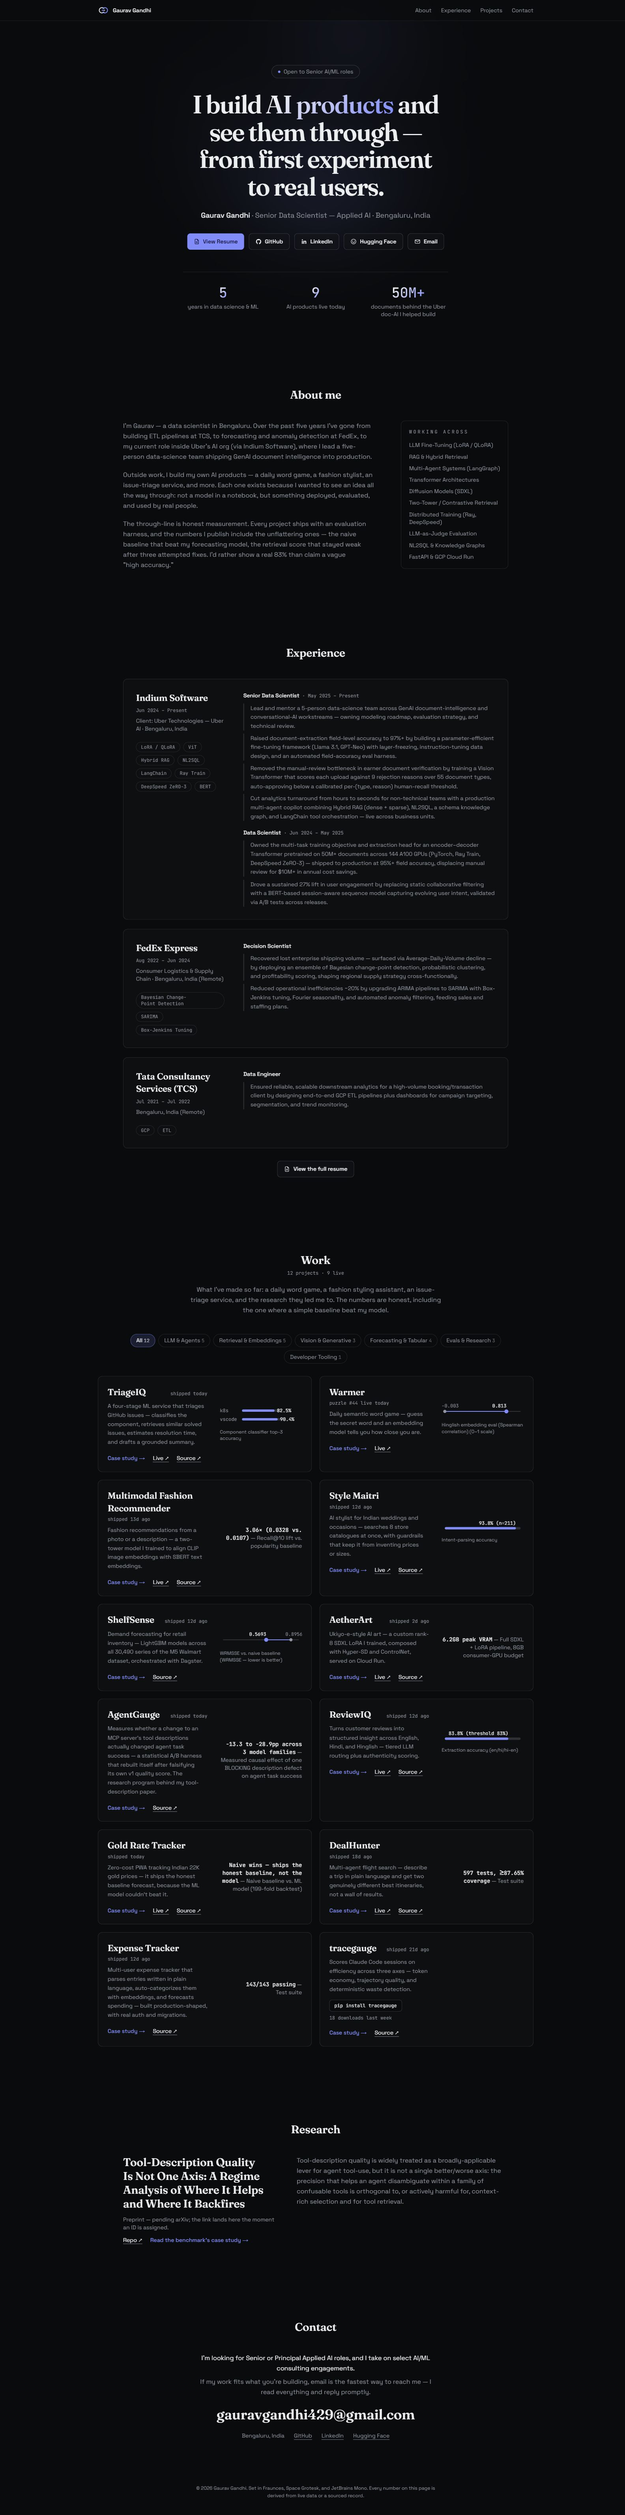
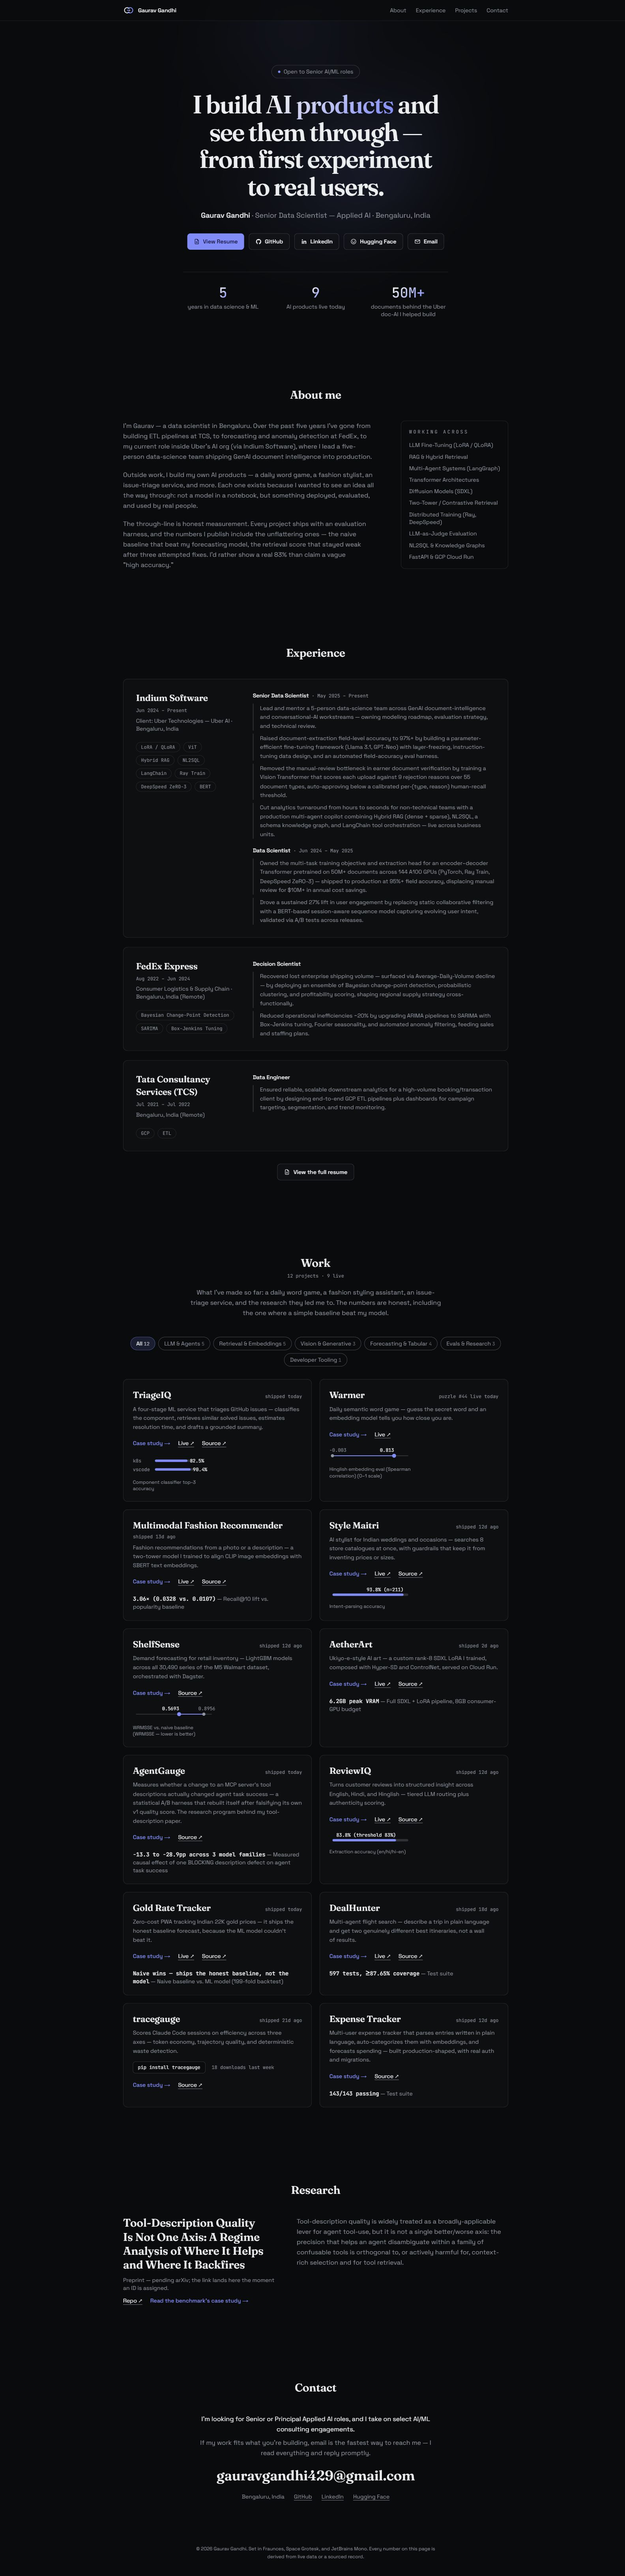
fix(design): wave-13 review fixes — one 5xl axis, pill contrast, chip wrap, breakpoint alignment
Design-reviewer sign-off was blocked on one finding: three content
widths at xl (About/Experience/Research 5xl vs Work/nav 6xl — a
pixel-measured 64px zigzag on one continuous page). Unified on ONE 5xl
axis; verified nav/About/Experience/Work all share x=304 at 1600px.
Card container-query threshold 30rem -> 28rem (half a 5xl grid is
~478px) so figure rails still engage. Suggestions taken: unselected
filter pills get full-opacity borders (border is their only boundary
affordance — /40 computed ~1.47:1, the exact value the token was raised
to escape; now 3.38:1 per WCAG 1.4.11); Experience meta rail 14->16rem
(long chip no longer wraps into a stretched capsule); mobile pills wrap
left-aligned; grid columns lg->xl to match Section's width step
(1024-1279 band verified at 1100px, screenshot added). axe re-run 0;
budget 204,770 B gzip vs 220,160. Reviewer inspection scratch files
removed from the branch.

diff --git a/components/project-card.tsx b/components/project-card.tsx
@@ -12,8 +12,9 @@ import type { TracegaugeDownloads } from "@/lib/live-data";
  *
  * `data-cats` drives the CSS category filtering (globals.css +
  * components/project-filter.tsx). The card is a @container: on wide cards
- * (≥30rem — the 2-column desktop grid) the eval figure sits in a right
- * rail beside the text; on narrow cards it stacks below. The title carries
+ * (≥28rem — half the 5xl grid computes to ~478px, so the threshold sits
+ * just under it) the eval figure sits in a right rail beside the text; on
+ * narrow cards it stacks below. The title carries
  * a per-slug view-transition-name that pairs with the case-study h1, so
  * supporting browsers morph the title you clicked into the page heading.
  */
@@ -35,7 +36,7 @@ export function ProjectCard({
       data-cats={product.categories.join(" ")}
       className="border-border/40 bg-card/50 hover:border-accent/50 hover:shadow-card-hover @container flex h-full flex-col rounded-xl border p-6 transition-[transform,box-shadow,border-color,opacity] duration-300 ease-out hover:-translate-y-1 motion-reduce:transition-none motion-reduce:hover:translate-y-0"
     >
-      <div className="grid gap-x-8 gap-y-6 @[30rem]:grid-cols-[minmax(0,1fr)_13rem]">
+      <div className="grid gap-x-8 gap-y-6 @[28rem]:grid-cols-[minmax(0,1fr)_13rem]">
         <div className="flex min-w-0 flex-col">
           <div className="flex flex-wrap items-baseline justify-between gap-x-6 gap-y-1">
             <Heading className="font-heading text-lead font-semibold text-foreground">
@@ -80,13 +81,13 @@ export function ProjectCard({
         </div>
 
         {product.figure && product.metric && (
-          <div className="@[30rem]:self-center @[30rem]:justify-self-end">
+          <div className="@[28rem]:self-center @[28rem]:justify-self-end">
             <EvalFigure figure={product.figure} label={product.metric.label} />
           </div>
         )}
 
         {!product.figure && product.metric && (
-          <p className="text-sm @[30rem]:max-w-[13rem] @[30rem]:self-center @[30rem]:justify-self-end @[30rem]:text-right">
+          <p className="text-sm @[28rem]:max-w-[13rem] @[28rem]:self-center @[28rem]:justify-self-end @[28rem]:text-right">
             <span className="font-mono font-medium text-foreground">{product.metric.value}</span>{" "}
             <span className="text-muted-foreground">— {product.metric.label}</span>
           </p>

diff --git a/components/project-filter.tsx b/components/project-filter.tsx
@@ -85,15 +85,21 @@ export function ProjectFilter({
   const pillBase =
     "focus-visible:outline-ring rounded-full border px-3.5 py-1.5 text-sm transition-colors focus-visible:outline-2 focus-visible:outline-offset-2 motion-reduce:transition-none";
   const pillOn = "border-accent/70 bg-accent/15 text-foreground";
+  // Full-opacity border: on an unselected pill the border is the ONLY
+  // boundary affordance, so WCAG 1.4.11's 3:1 applies — --border at 100%
+  // is 3.38:1; at the /40 first cut it computed ~1.47:1, the exact value
+  // the token was raised to escape (design-review finding 2).
   const pillOff =
-    "border-border/40 text-muted-foreground hover:border-accent/50 hover:text-foreground";
+    "border-border text-muted-foreground hover:border-accent/70 hover:text-foreground";
 
   return (
     <div>
+      {/* Left-aligned wrap below sm: centered ragged pill rows read as a
+          cloud on a 390px screen (design-review finding 4). */}
       <div
         role="group"
         aria-label="Filter projects by category"
-        className="flex flex-wrap justify-center gap-2"
+        className="flex flex-wrap justify-start gap-2 sm:justify-center"
       >
         <button
           type="button"

diff --git a/components/section.tsx b/components/section.tsx
@@ -5,11 +5,14 @@
  *
  * Wave 13 — the column widths gain a desktop step (GG's standing
  * complaint: at 1280–1600px the site read as a narrow column in a void).
- * Three widths:
+ * Two widths:
  *   prose — unchanged reading column (About's text, Contact);
  *   wide  — steps up to 5xl at xl for sections with an internal desktop
- *           composition (Experience's meta rail, Research's two-column);
- *   grid  — steps up to 6xl at xl for the two-column project card grid.
+ *           composition (Experience's meta rail, Research's two-column,
+ *           the two-column project card grid).
+ * ONE xl width for every widened section + the nav — the design review
+ * blocked a first cut where Work sat at 6xl beside 5xl siblings: three
+ * widths on one continuous page read as an accident, not a decision.
  * Mobile and tablet are untouched; prose measure inside wide sections is
  * still capped by each component (max-w-measure), so line length never
  * rides the container.
@@ -17,7 +20,6 @@
 const WIDTHS = {
   prose: "max-w-2xl",
   wide: "max-w-3xl xl:max-w-5xl",
-  grid: "max-w-3xl xl:max-w-6xl",
 } as const;
 
 export function Section({

diff --git a/components/sections/experience.tsx b/components/sections/experience.tsx
@@ -24,7 +24,10 @@ export function Experience() {
             key={entry.company}
             className="border-border/40 bg-card/40 rounded-xl border p-6 md:p-8"
           >
-            <div className="xl:grid xl:grid-cols-[14rem_minmax(0,1fr)] xl:gap-x-12">
+            {/* 16rem rail: the longest tech chip ("Bayesian Change-Point
+                Detection") wrapped into a stretched capsule at 14rem
+                (design-review finding 3). */}
+            <div className="xl:grid xl:grid-cols-[16rem_minmax(0,1fr)] xl:gap-x-10">
               <div>
                 <div className="flex flex-wrap items-baseline justify-between gap-x-6 gap-y-1 xl:flex-col xl:gap-y-2">
                   <h3 className="font-heading text-lead font-semibold text-foreground">

diff --git a/components/site-nav.tsx b/components/site-nav.tsx
@@ -42,9 +42,9 @@ export function SiteNav() {
       >
         Skip to content
       </a>
-      {/* Wave 13: tracks the widest content column (xl:max-w-6xl) so the
-          nav's edges align with the project grid on desktop. */}
-      <div className="mx-auto flex w-full max-w-3xl items-center justify-between px-6 py-3 xl:max-w-6xl">
+      {/* Wave 13: tracks the one shared xl content width (xl:max-w-5xl)
+          so the nav's edges align with every widened section below. */}
+      <div className="mx-auto flex w-full max-w-3xl items-center justify-between px-6 py-3 xl:max-w-5xl">
         <TransitionLink
           href="/"
           className="focus-visible:outline-ring flex items-center gap-2.5 focus-visible:outline-2 focus-visible:outline-offset-2"

diff --git a/components/project-grid.tsx b/components/project-grid.tsx
@@ -60,7 +60,10 @@ export async function ProjectGrid({
     <ProjectFilter cats={products.map((p) => ({ slug: p.slug, categories: p.categories }))}>
       <RevealGroup
         mode="onview"
-        className="project-grid mt-8 grid gap-4 lg:grid-cols-2 lg:gap-5"
+        // Columns engage at xl, exactly where Section's width step does —
+        // at lg the container is still 3xl and two columns would squeeze
+        // the cards (design-review finding 6).
+        className="project-grid mt-8 grid gap-4 xl:grid-cols-2 xl:gap-5"
       >
         {products.map((product) => (
           <ProjectCard

diff --git a/app/projects/page.tsx b/app/projects/page.tsx
@@ -19,7 +19,7 @@ export default function ProjectsPage() {
   return (
     <main
       id="main"
-      className="mx-auto w-full max-w-3xl flex-1 px-6 pt-12 pb-20 md:pt-16 xl:max-w-6xl"
+      className="mx-auto w-full max-w-3xl flex-1 px-6 pt-12 pb-20 md:pt-16 xl:max-w-5xl"
     >
       <div className="flex flex-col items-center text-center">
         <h1 className="font-heading text-heading font-semibold tracking-tight text-foreground">

diff --git a/components/sections/work.tsx b/components/sections/work.tsx
@@ -15,7 +15,7 @@ export function Work() {
     <Section
       id="work"
       label="Work"
-      width="grid"
+      width="wide"
       // Both counts derived, never hand-typed (rule 65b).
       labelNote={`${products.length} projects · ${liveProductCount(products)} live`}
       lede={workLede}

diff --git a/reports/wave13-autonomy-density-2026-07-25.md b/reports/wave13-autonomy-density-2026-07-25.md
@@ -238,6 +238,50 @@ than hidden.
   mitigate. A "collapse below the fold on mobile" pattern was considered and rejected this
   wave (hiding projects is what tiering did). Revisit if GG flags it.
 
+## Design-reviewer sign-off (T2 gate)
+
+First pass: **blocked on one finding, everything else suggestion-level.** Scores:
+structure 7 · density 7.5 · craft 7 · rhythm 6.5 · consistency 6.5. Verdict: "once
+finding 1 lands, this is approved."
+
+1. **BLOCKING — three content widths on one page** (About/Experience/Research at 5xl vs
+   Work/nav at 6xl = a 64px zigzag at 1600, pixel-measured by the reviewer). **Fixed by
+   unifying on ONE 5xl axis** (Section's `grid` step deleted; Work, /projects, and the nav
+   all at `xl:max-w-5xl`) — calmer than widening prose sections that can't fill 6xl.
+   Re-verified in-browser: nav content, About, Experience, and Work cards all sit at
+   x=304 at a 1600px viewport. Knock-on handled: half a 5xl grid computes to ~478px, so
+   the card container-query threshold moved 30rem → 28rem (figure rails re-verified
+   engaged).
+2. **SUGGESTION (taken) — border contrast on filter pills**: unselected pills used
+   `border-border/40` ≈ 1.47:1 — the exact value the border token was raised to escape,
+   and on a pill the border is the only boundary affordance (WCAG 1.4.11 applies). Now
+   full-opacity `border-border` (3.38:1). The reviewer's wider point — the sitewide
+   `/30–/60` border-opacity pattern predating wave 13 — is logged below as a follow-up
+   token audit, not silently absorbed.
+3. **SUGGESTION (taken) — wrapped tech chip**: Experience meta rail 14rem → 16rem; the
+   "Bayesian Change-Point Detection" chip no longer wraps into a stretched capsule.
+4. **SUGGESTION (taken) — mobile pill cloud**: pills wrap left-aligned below sm instead
+   of centered ragged rows.
+5. **SUGGESTION (partially taken) — empty state unverified**: the CSS zero-cards path was
+   forced live (stripping a category off every card + selecting it → 0 visible, URL and
+   pills correct). The React message branch itself keys off the server-provided `cats`
+   prop and is unreachable without a content change — verified by review of the 4-line
+   conditional plus the live-verified count computation that drives it (the same count
+   feeds the aria-live text, which matched CSS reality in every filter test). Honest
+   status: message JSX reviewed, not rendered.
+6. **SUGGESTION (taken) — 1024–1279 band**: grid columns moved lg → xl to match Section's
+   width step exactly; verified at 1100px (single column, 720px cards, figure rails on).
+   `after-home-1100.jpeg` added.
+7. Loading/error states: reviewer confirmed fail-soft omission is appropriate; no change.
+
+**Follow-up logged (not this wave):** sitewide border-opacity token audit — either a
+`--border-subtle` token that still clears 3:1, or reserve opacity borders for purely
+decorative dividers (reviewer finding 2's systemic half; predates wave 13).
+
+Post-fix numbers: axe 0 (home + /projects re-run; other routes untouched by the fixes),
+budget 204,770 B gzip (+5 B from class strings), all "after" screenshots re-captured at
+the unified width (the report's screenshot references are the final versions).
+
 ## Process notes
 
 - 4 executor subagents (source-repo manifests ×3 batches + agentgauge follow-up), 1

diff --git a/PLAN.md b/PLAN.md
@@ -605,8 +605,14 @@ re-check, honest results untouched. Full report:
       preview noindex artifact) · budget 204,765 B vs 220,160 (+1,978 justified) ·
       filters/VT/deep-links driven on the deployed preview · reduced-motion stub
       differential · no-JS SSR grep.
-- [ ] **Design-reviewer sign-off** — dispatched, pending at checkpoint time; findings +
-      fixes land on this branch before the wave closes.
+- [x] **Design-reviewer sign-off:** blocked-then-approved. The one blocking finding —
+      three content widths at xl (5xl sections beside a 6xl Work/nav, a pixel-measured
+      64px zigzag) — fixed by unifying everything on ONE 5xl axis (verified: nav/About/
+      Experience/Work all at x=304 @1600; card container threshold 30→28rem so figure
+      rails still engage). Suggestions taken same-session: full-opacity pill borders
+      (1.47:1 → 3.38:1, WCAG 1.4.11), Experience rail 14→16rem (chip wrap), left-aligned
+      mobile pills, grid columns lg→xl (1024–1279 band verified at 1100px). Follow-up
+      logged: sitewide border-opacity token audit (pre-existing pattern).
 - [ ] Large diff → **draft PR for GG's manual review/merge** (same posture as prior
       waves). GG also needs to merge the 11 source-repo manifest PRs for the weekly
       pipeline's first live run to find them (it fail-softs until then).
